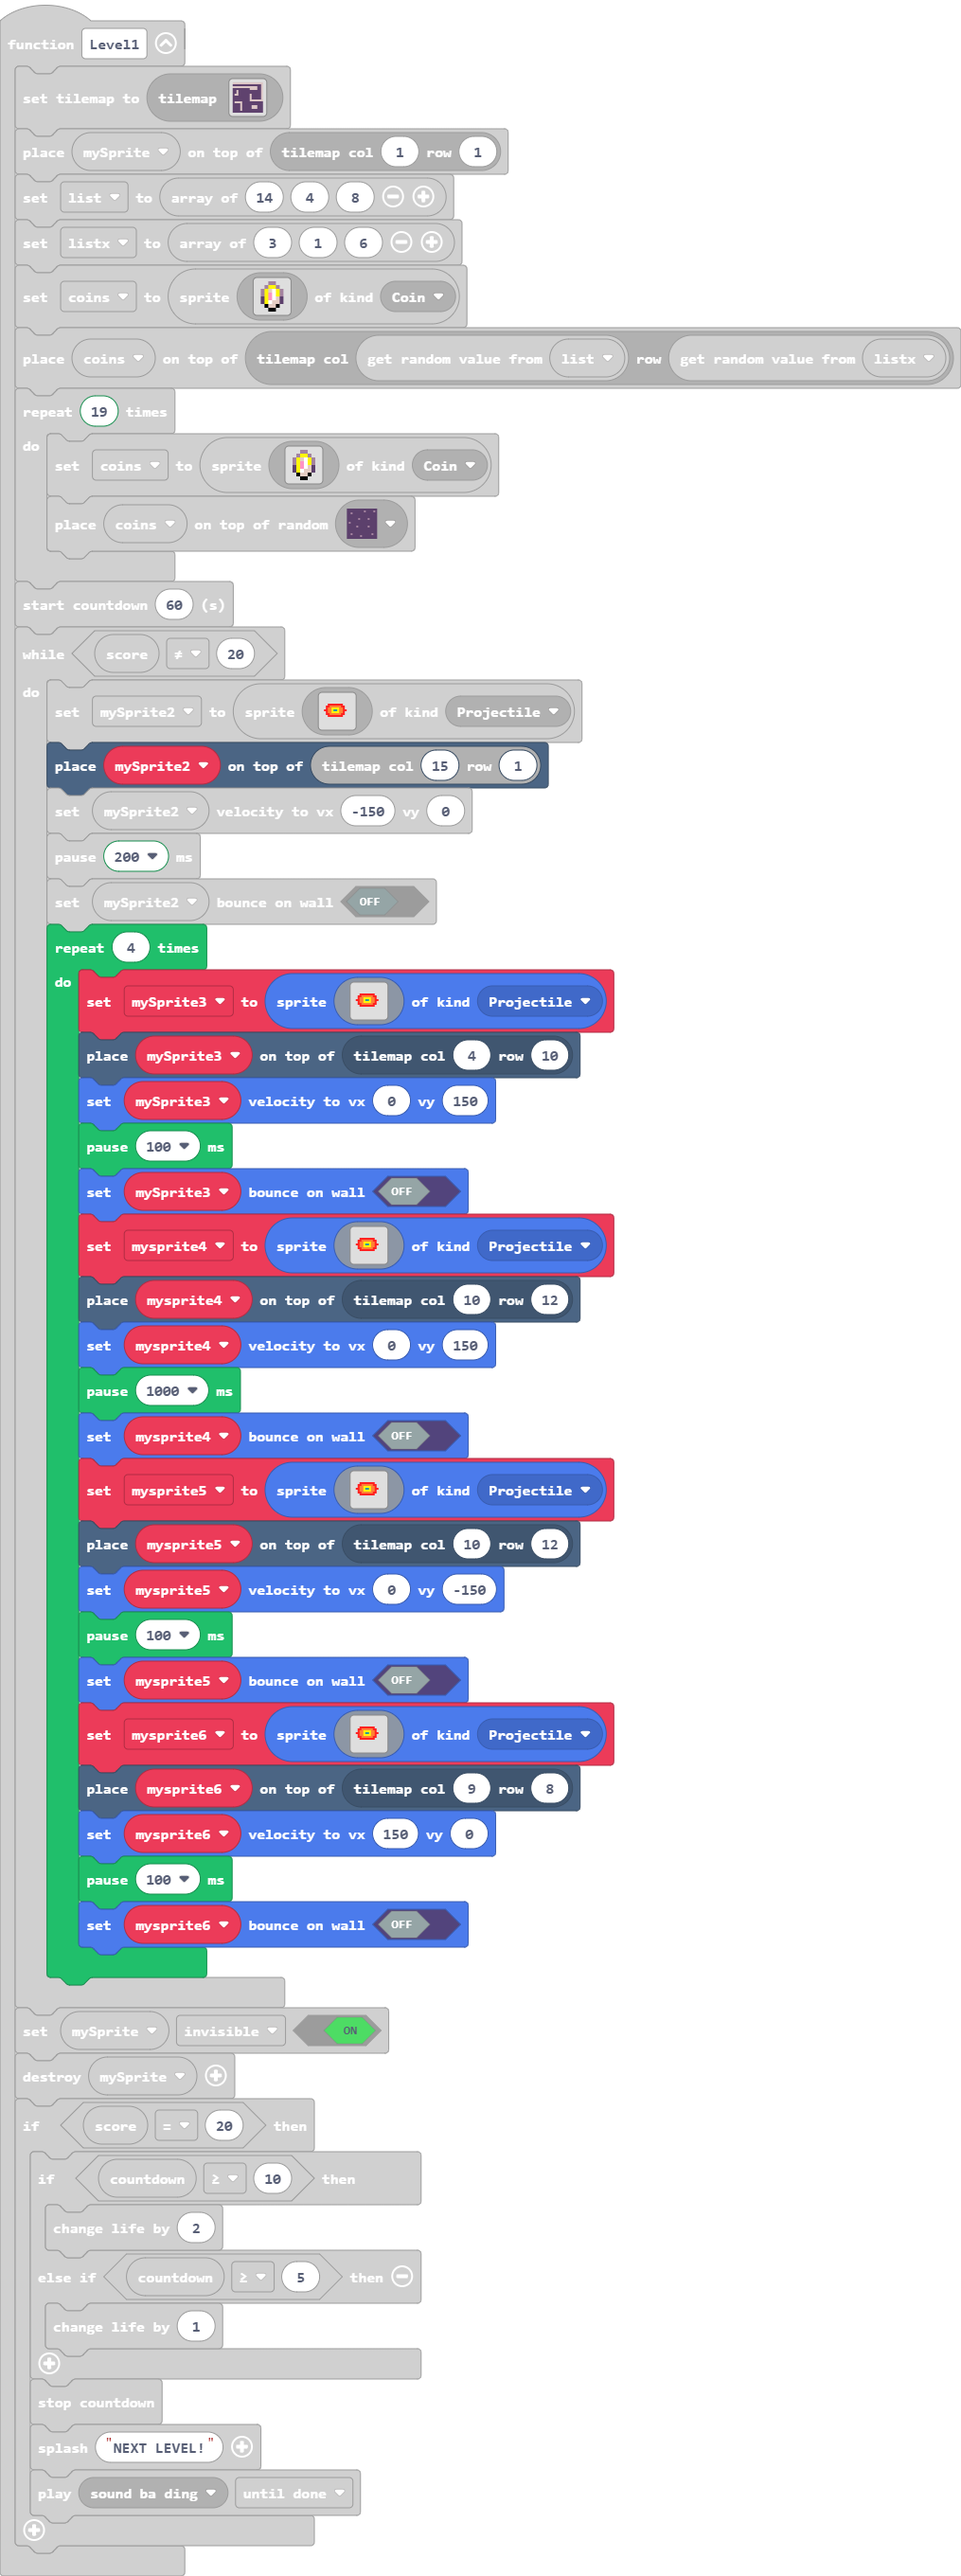
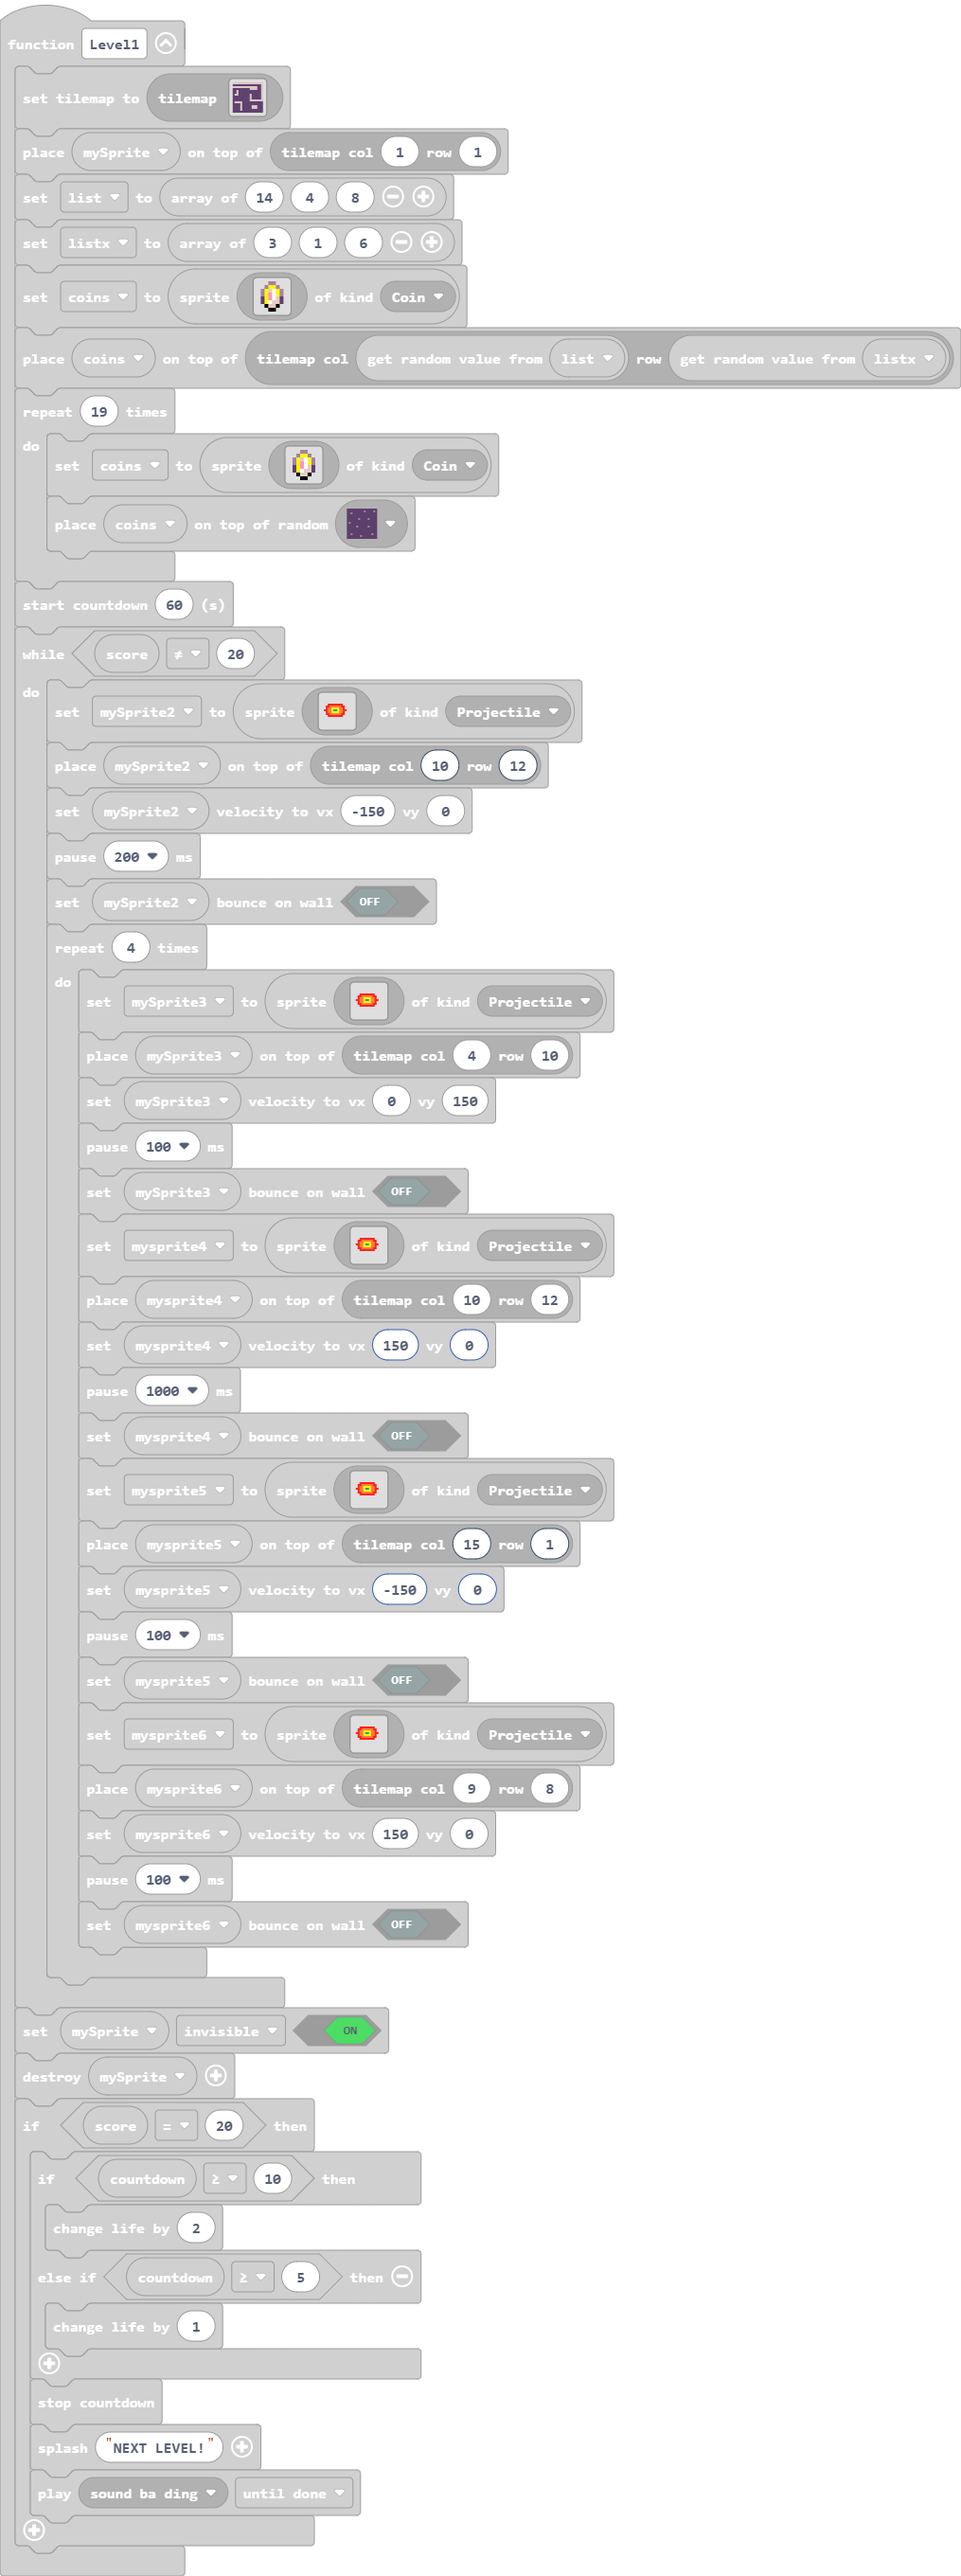
Update main.blocks, main.ts

Changed region(s): [[0.0305, 0.3438, 0.6414, 0.7812], [0.0305, 0.2812, 0.5803, 0.3125]]

diff --git a/main.ts b/main.ts
@@ -208,7 +208,7 @@ function Level1 () {
             . . . . . . . . . . . . . . . . 
             . . . . . . . . . . . . . . . . 
             `, SpriteKind.Projectile)
-        tiles.placeOnTile(mySprite2, tiles.getTileLocation(15, 1))
+        tiles.placeOnTile(mySprite2, tiles.getTileLocation(10, 12))
         mySprite2.setVelocity(-150, 0)
         pause(200)
         mySprite2.setBounceOnWall(false)
@@ -254,7 +254,7 @@ function Level1 () {
                 . . . . . . . . . . . . . . . . 
                 `, SpriteKind.Projectile)
             tiles.placeOnTile(mysprite4, tiles.getTileLocation(10, 12))
-            mysprite4.setVelocity(0, 150)
+            mysprite4.setVelocity(150, 0)
             pause(1000)
             mysprite4.setBounceOnWall(false)
             mysprite5 = sprites.create(img`
@@ -275,8 +275,8 @@ function Level1 () {
                 . . . . . . . . . . . . . . . . 
                 . . . . . . . . . . . . . . . . 
                 `, SpriteKind.Projectile)
-            tiles.placeOnTile(mysprite5, tiles.getTileLocation(10, 12))
-            mysprite5.setVelocity(0, -150)
+            tiles.placeOnTile(mysprite5, tiles.getTileLocation(15, 1))
+            mysprite5.setVelocity(-150, 0)
             pause(100)
             mysprite5.setBounceOnWall(false)
             mysprite6 = sprites.create(img`
